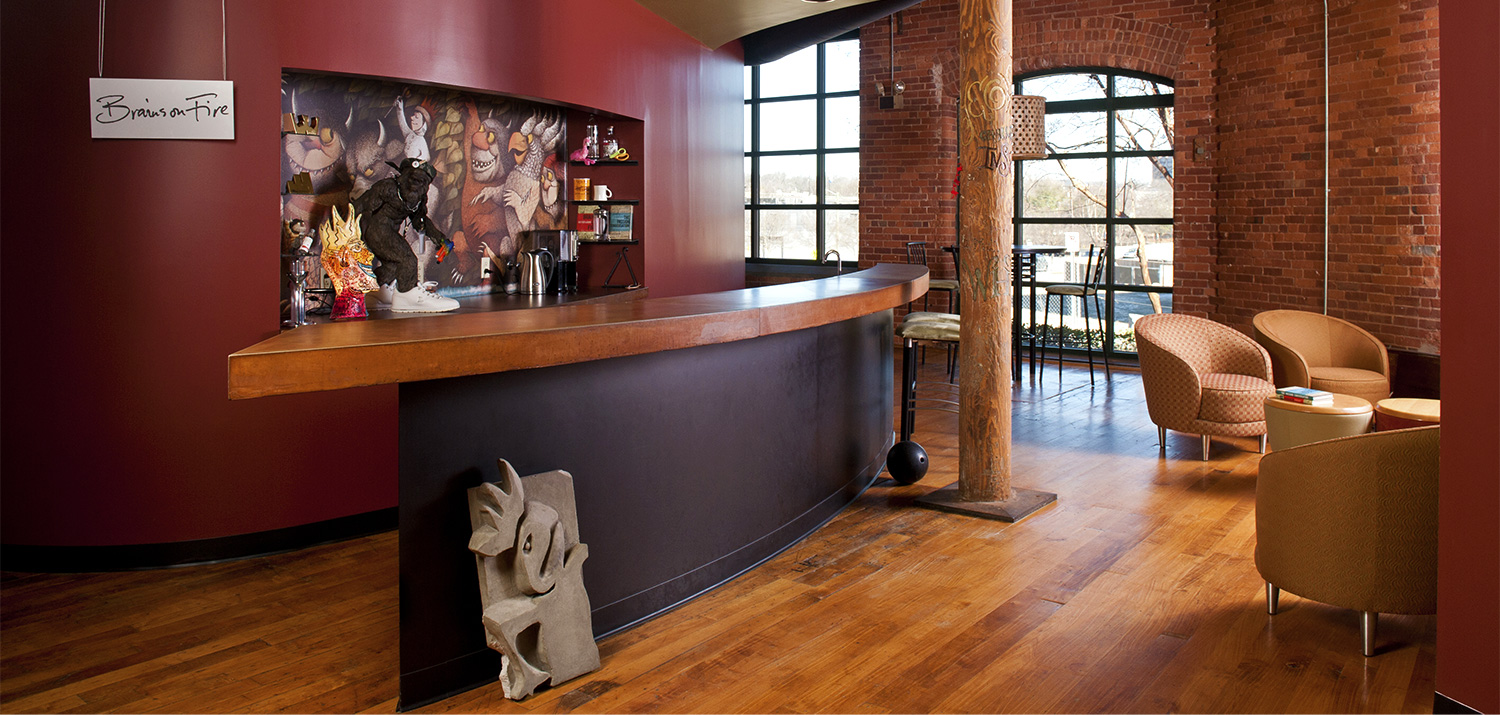
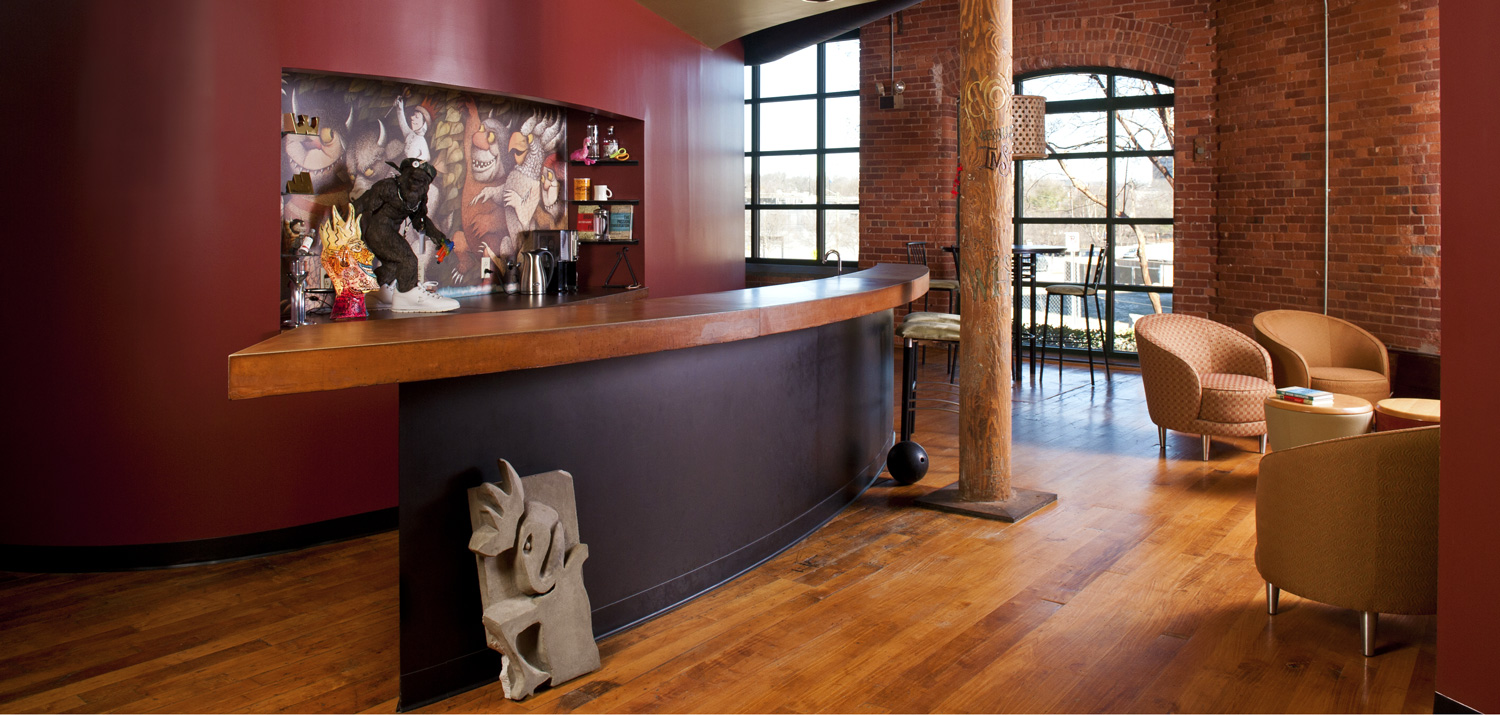
Added intro handwriting
also reduced the height of the lobby and cloned out the BOF sign

diff --git a/individuals/css/individuals.css b/individuals/css/individuals.css
@@ -96,7 +96,8 @@
 }
 .mega-banner {
 	width: 100%;
-	height:714px;
+	/* height:714px; */
+	height:625px;
 	position:relative;
 	overflow: hidden;
 /***********************************************************	
@@ -126,6 +127,12 @@
 	bottom:0;
 	right:-23px;
 }
+.mega-banner .photo-container .holder img{	
+  -webkit-transition: all 0.3s ease-out;  /* Chrome 1-25, Safari 3.2+ */
+     -moz-transition: all 0.3s ease-out;  /* Firefox 4-15 */
+       -o-transition: all 0.3s ease-out;  /* Opera 10.50–12.00 */
+          transition: all 0.3s ease-out;  /* Chrome 26, Firefox 16+, IE 10+, Opera 12.10+ */
+}
 .mega-banner .photo-container .holder02,
 .mega-banner.night .photo-container .holder {display:none;}
 .mega-banner.night .photo-container .holder02 {
@@ -154,6 +161,18 @@ FLOATING PEOPLE
 	bottom: -32px;
 	left: -61px;
 	display:block;
+}
+
+#intro-handwriting {
+	position: absolute;
+	bottom: 232px;
+	left: -842px;
+}
+
+#night-intro-handwriting {
+	position:absolute;
+	bottom: -32px;
+	left: -61px;
 }
 
 #cordell {

diff --git a/individuals/index.html b/individuals/index.html
@@ -52,6 +52,7 @@
 			<div class="mega-banner">
 				<div class="photo-container">
 					<div class="holder">
+						      <img src="images/lobby-shots/intro-writing.png"   alt="handwriting"                 id="intro-handwriting" class="active">
 						      <img src="images/lobby-shots/robbin.png"          alt="Robbin Phillips"             id="robbin">
 						      <img src="images/lobby-shots/cordell.png"         alt="Greg Cordell"                id="cordell">
 						      <img src="images/lobby-shots/ramsey.png"          alt="Greg Ramsey"                 id="ramsey">
@@ -96,6 +97,7 @@
 			<div class="people-holder">
 				<h1>We are Brains on Fire</h1>
 				<ul>
+					<li><a></a></li>
 					<li>
 						<a href="#">
 							<img src="images/headshots/robbin-167x167.jpg" alt="Robbin Phillips">
